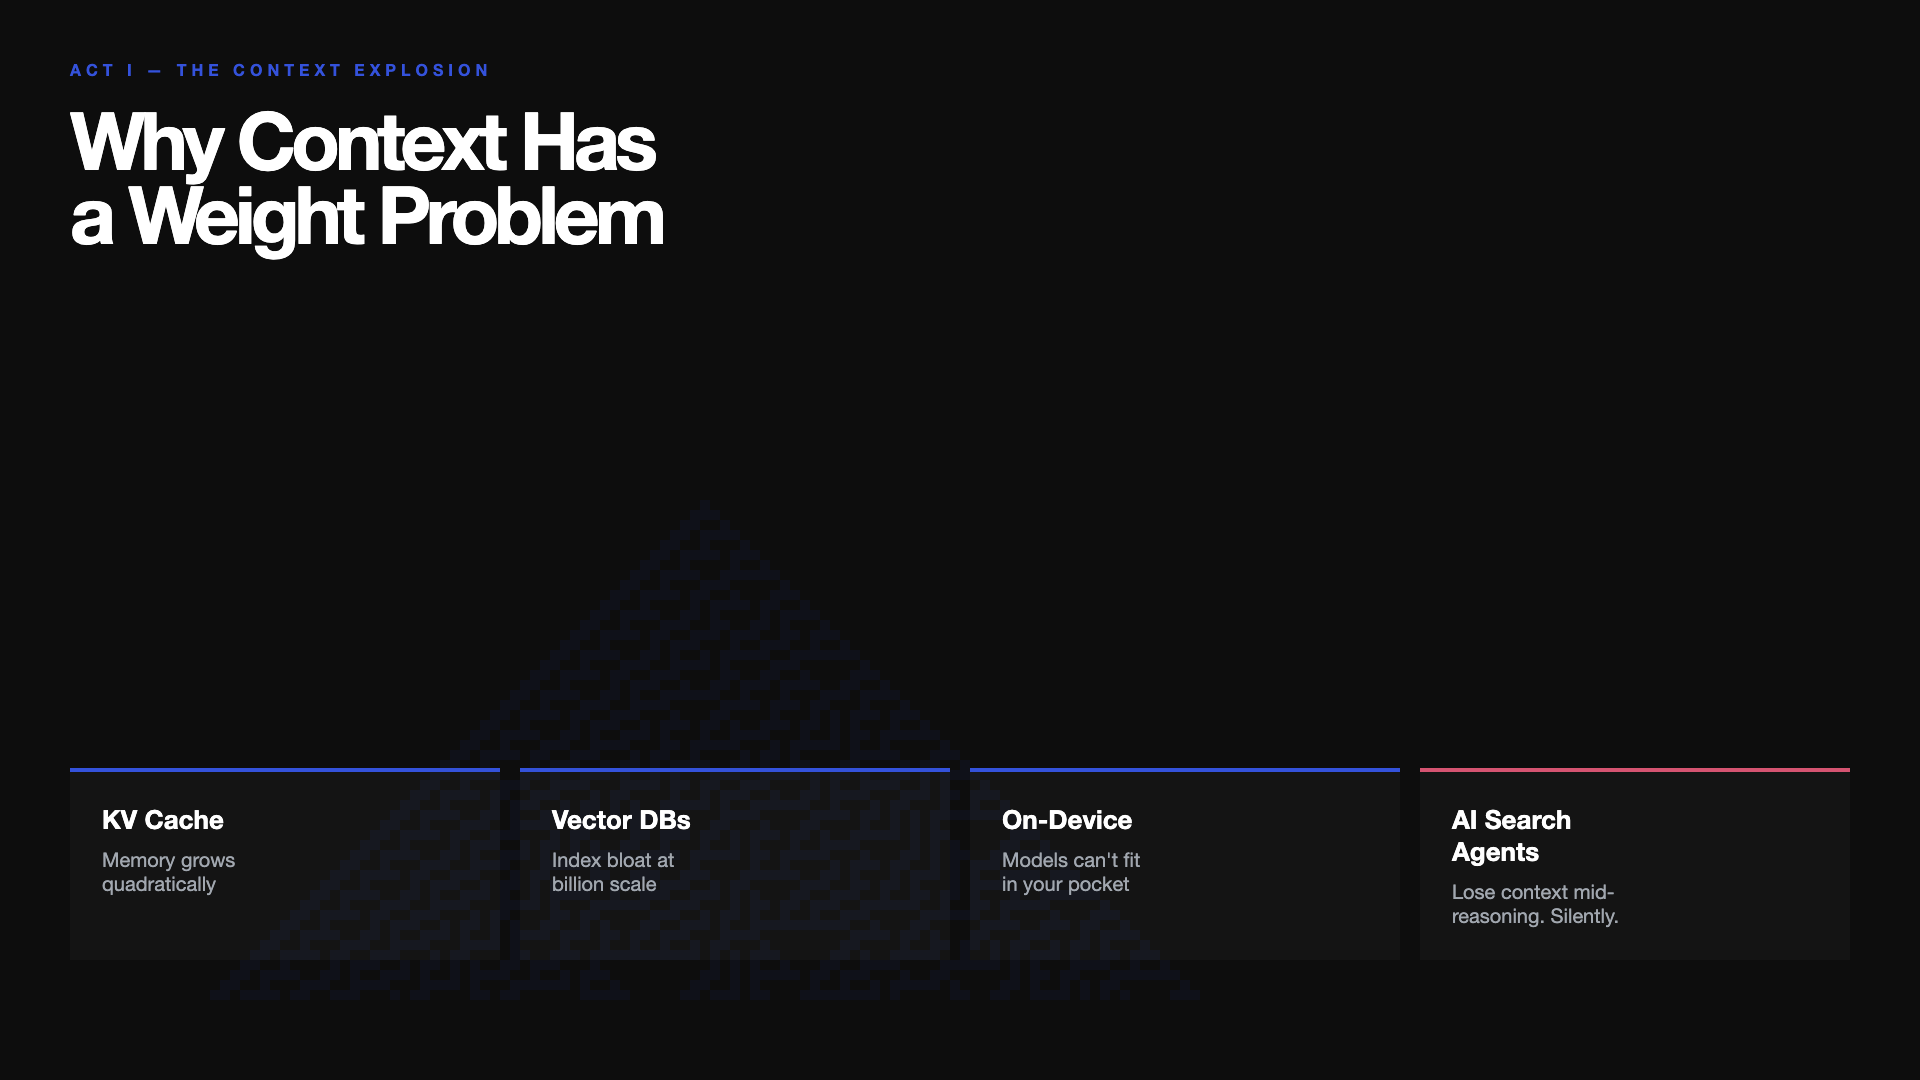
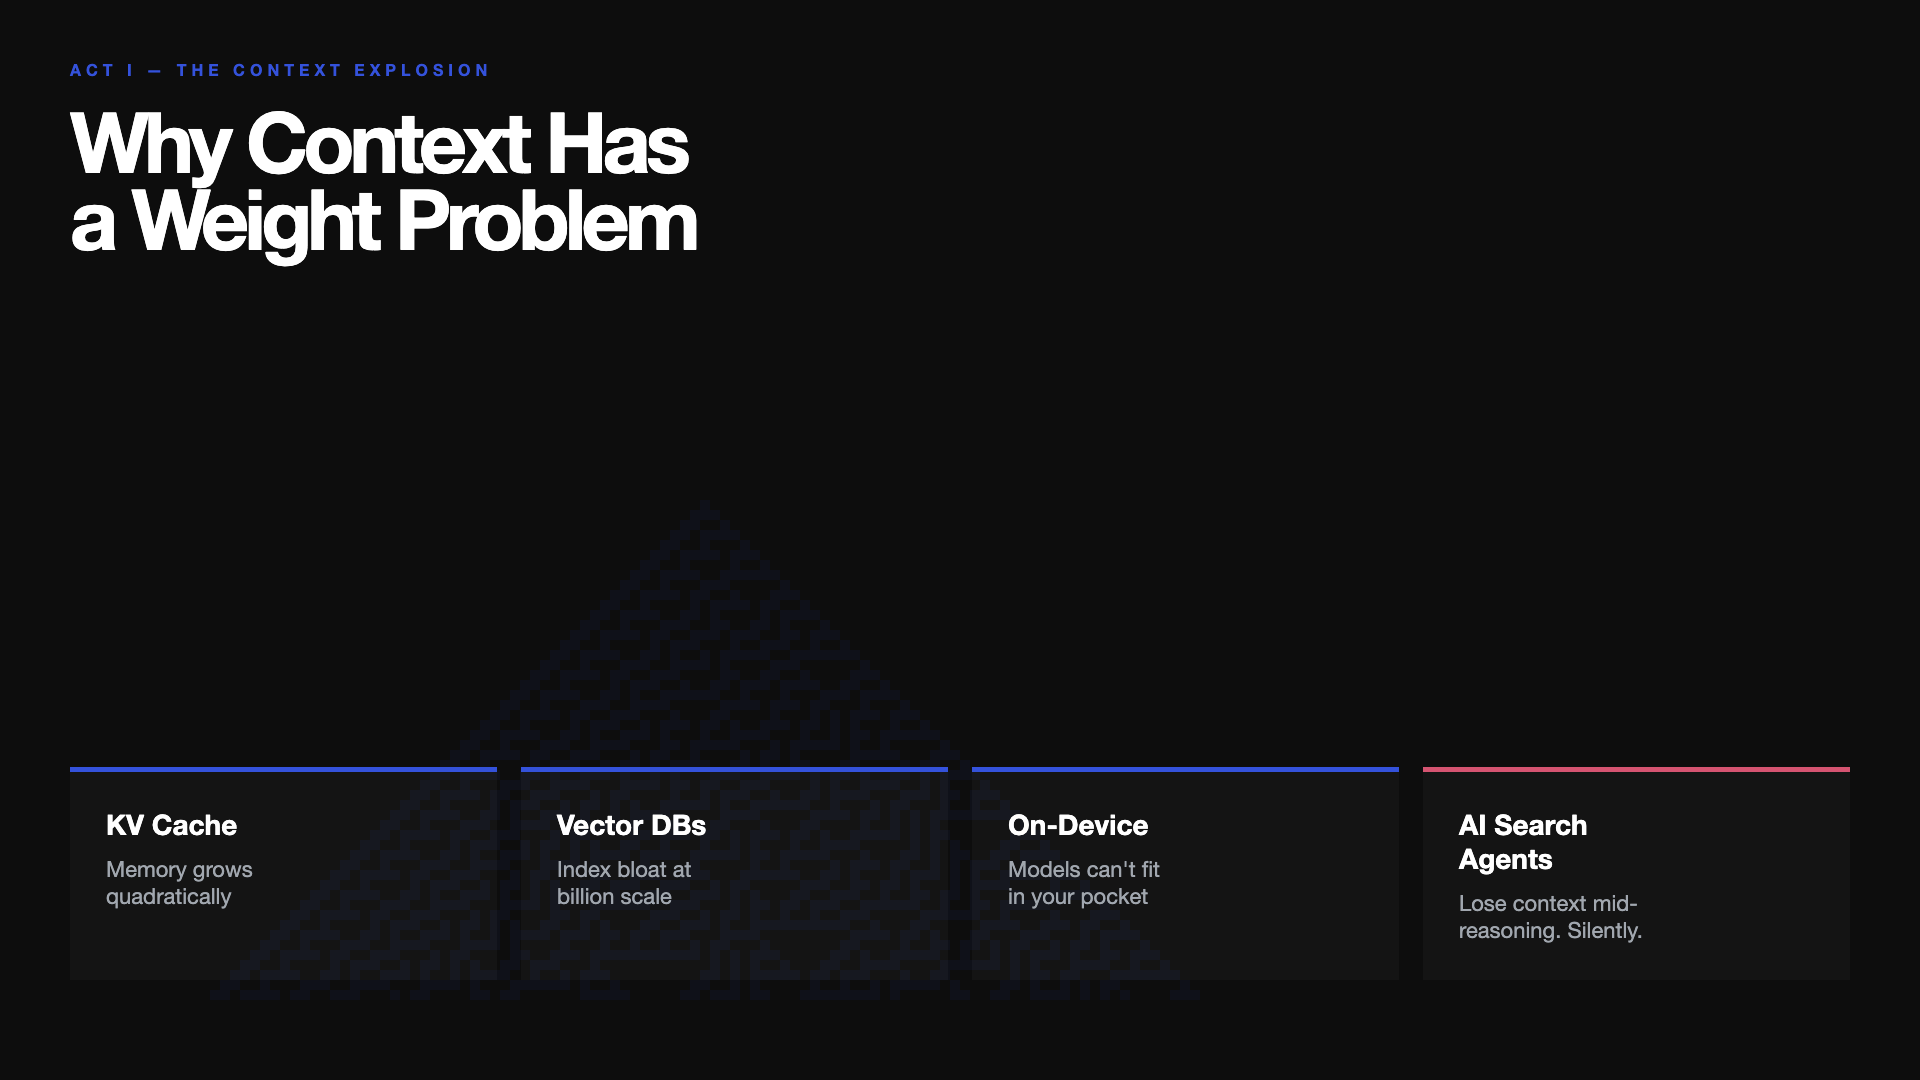
fix: vertically distribute content to fill full canvas
Core layout: added justify-content:center to .c container
Slides 01,04,05,17,19,20: content now fills full height with
flex:1 justify-content:center wrappers. Numbers 80px, titles 40px,
body 26px. No more crammed-into-top-half.

diff --git a/generate_slides_v2_bold.py b/generate_slides_v2_bold.py
@@ -61,7 +61,7 @@ body{{width:{T['W']}px;height:{T['H']}px;background:{bg};
 font-family:{T['font']};overflow:hidden;position:relative;color:{fg};}}
 .ca{{position:absolute;top:0;left:0;width:100%;height:100%;pointer-events:none;z-index:0;}}
 .c{{position:relative;z-index:1;width:100%;height:100%;padding:60px 70px;
-display:flex;flex-direction:column;}}
+display:flex;flex-direction:column;justify-content:center;}}
 .section{{font-size:16px;font-weight:700;letter-spacing:5px;text-transform:uppercase;
 color:{T['sky']};margin-bottom:24px;}}
 .h{{font-weight:900;line-height:0.92;letter-spacing:-5px;}}
@@ -82,13 +82,13 @@ def light(body, ca=""): return html_slide(body, T['white'], T['dark2'], ca)
 def slide_01():
     ca = svg_grid(G30, 80, 14, T['sky'], 0.30, 520, 0)
     return dark(f"""
-    <div style="margin-top:auto;margin-bottom:auto;">
+    <div style="flex:1;display:flex;flex-direction:column;justify-content:center;">
       <div class="section">SEO Week 2026</div>
-      <div class="h" style="font-size:130px;max-width:800px;">Structure<br>Is the<br>Moat</div>
-      <div class="bar" style="width:90px;background:{T['sky']};"></div>
-      <div style="font-size:26px;color:{T['gray']};margin-top:28px;max-width:800px;line-height:1.5;">
+      <div class="h" style="font-size:140px;max-width:900px;">Structure<br>Is the<br>Moat</div>
+      <div class="bar" style="width:100px;background:{T['sky']};"></div>
+      <div style="font-size:28px;color:{T['gray']};margin-top:28px;max-width:900px;line-height:1.5;">
         What the context explosion means for how AI<br>finds, navigates and ranks your content</div>
-      <div style="font-size:20px;color:{T['gray']};opacity:0.6;margin-top:36px;">Andrea Volpini · WordLift</div>
+      <div style="font-size:22px;color:{T['gray']};opacity:0.6;margin-top:36px;">Andrea Volpini · WordLift</div>
     </div>""", ca)
 
 def slide_02():
@@ -97,13 +97,13 @@ def slide_02():
               ("On-Device","Models can't fit\nin your pocket",T['sky']),("AI Search\nAgents","Lose context mid-\nreasoning. Silently.",T['berry'])]
     cards = ""
     for title, desc, color in panels:
-        cards += f'''<div style="flex:1;padding:32px;border-top:4px solid {color};background:rgba(255,255,255,0.03);">
-          <div style="font-size:26px;font-weight:900;margin-bottom:12px;white-space:pre-line;">{title}</div>
-          <div style="font-size:20px;color:{T['gray']};white-space:pre-line;">{desc}</div></div>'''
+        cards += f'''<div style="flex:1;padding:36px;border-top:5px solid {color};background:rgba(255,255,255,0.03);">
+          <div style="font-size:28px;font-weight:900;margin-bottom:14px;white-space:pre-line;">{title}</div>
+          <div style="font-size:22px;color:{T['gray']};white-space:pre-line;">{desc}</div></div>'''
     return dark(f"""
     <div class="section">Act I — The Context Explosion</div>
-    <div class="h" style="font-size:80px;margin-bottom:48px;">Why Context Has<br>a Weight Problem</div>
-    <div style="display:flex;gap:20px;margin-top:auto;margin-bottom:60px;">{cards}</div>""", ca)
+    <div class="h" style="font-size:84px;margin-bottom:auto;">Why Context Has<br>a Weight Problem</div>
+    <div style="display:flex;gap:24px;margin-bottom:40px;">{cards}</div>""", ca)
 
 def slide_03():
     """FIX — Two-column, but BOLD treatment"""
@@ -140,14 +140,14 @@ def slide_04():
               ("03","One Model → A System","Compression · Navigation · Structure working together")]
     items = ""
     for num, title, desc in shifts:
-        items += f'''<div style="display:flex;gap:28px;margin-bottom:44px;align-items:flex-start;">
-          <div style="font-size:64px;font-weight:900;color:{T['sky']};line-height:1;min-width:90px;">{num}</div>
-          <div><div style="font-size:32px;font-weight:900;margin-bottom:8px;">{title}</div>
-          <div style="font-size:22px;color:{T['gray']};">{desc}</div></div></div>'''
+        items += f'''<div style="display:flex;gap:36px;margin-bottom:56px;align-items:flex-start;">
+          <div style="font-size:80px;font-weight:900;color:{T['sky']};line-height:1;min-width:120px;">{num}</div>
+          <div><div style="font-size:40px;font-weight:900;margin-bottom:10px;">{title}</div>
+          <div style="font-size:26px;color:{T['gray']};">{desc}</div></div></div>'''
     return dark(f"""
     <div class="section">Act I — The Context Explosion</div>
-    <div class="h" style="font-size:72px;margin-bottom:52px;">Three Shifts That Changed<br>What 'Findable' Means</div>
-    {items}""", ca)
+    <div class="h" style="font-size:80px;margin-bottom:64px;">Three Shifts That Changed<br>What 'Findable' Means</div>
+    <div style="flex:1;display:flex;flex-direction:column;justify-content:center;">{items}</div>""", ca)
 
 
 # ═══════════════════════════════════════════════════════════
@@ -157,11 +157,11 @@ def slide_04():
 def slide_05():
     ca = svg_grid(G90, 65, 10, T['sky'], 0.06, T['W']//2 - 60*10, 200)
     return dark(f"""
-    <div style="margin-top:auto;margin-bottom:auto;">
+    <div style="flex:1;display:flex;flex-direction:column;justify-content:center;">
       <div class="section" style="margin-bottom:40px;">Act II</div>
-      <div class="h" style="font-size:130px;max-width:1200px;">The<br>Compression<br>Paradox</div>
-      <div class="bar" style="width:90px;background:{T['sky']};"></div>
-      <div style="font-size:24px;color:{T['gray']};margin-top:28px;">
+      <div class="h" style="font-size:140px;max-width:1300px;">The<br>Compression<br>Paradox</div>
+      <div class="bar" style="width:100px;background:{T['sky']};"></div>
+      <div style="font-size:26px;color:{T['gray']};margin-top:28px;">
         High compression · Zero overhead · Geometric accuracy<br>
         <span style="color:{T['berry']};">Get it wrong and your similarity scores are silently biased.</span></div>
     </div>""", ca)
@@ -417,30 +417,32 @@ def slide_17():
     ca = svg_grid(G110, 45, 10, T['sky'], 0.08, T['W']-55*10, 0)
     return dark(f"""
     <div class="section">Act III → IV — Bridge</div>
-    <div class="h" style="font-size:72px;margin-bottom:48px;">
+    <div class="h" style="font-size:80px;margin-bottom:56px;">
       The Gap Is Behavioral.<br><span style="color:{T['sky']};">That Means It's Trainable.</span></div>
-    <div style="display:flex;gap:28px;margin-bottom:40px;">
-      <div style="font-size:48px;font-weight:900;color:{T['sky']};line-height:1;min-width:60px;">01</div>
-      <div><div style="font-size:24px;font-weight:900;">Decisions, not architecture</div>
-        <div style="font-size:16px;color:{T['gray']};margin-top:4px;">83% behavioral tie with heuristic. Same tools, same graph.</div></div>
+    <div style="flex:1;display:flex;flex-direction:column;justify-content:center;">
+    <div style="display:flex;gap:36px;margin-bottom:48px;">
+      <div style="font-size:64px;font-weight:900;color:{T['sky']};line-height:1;min-width:90px;">01</div>
+      <div><div style="font-size:30px;font-weight:900;">Decisions, not architecture</div>
+        <div style="font-size:22px;color:{T['gray']};margin-top:6px;">83% behavioral tie with heuristic. Same tools, same graph.</div></div>
     </div>
-    <div style="display:flex;gap:28px;margin-bottom:40px;">
-      <div style="font-size:48px;font-weight:900;color:{T['sky']};line-height:1;min-width:60px;">02</div>
-      <div><div style="font-size:24px;font-weight:900;">Exploration traces = training data</div>
-        <div style="font-size:16px;color:{T['gray']};margin-top:4px;">519 navigation trajectories with F1 as ground truth.</div></div>
+    <div style="display:flex;gap:36px;margin-bottom:48px;">
+      <div style="font-size:64px;font-weight:900;color:{T['sky']};line-height:1;min-width:90px;">02</div>
+      <div><div style="font-size:30px;font-weight:900;">Exploration traces = training data</div>
+        <div style="font-size:22px;color:{T['gray']};margin-top:6px;">519 navigation trajectories with F1 as ground truth.</div></div>
     </div>
-    <div style="display:flex;gap:28px;margin-bottom:40px;">
-      <div style="font-size:48px;font-weight:900;color:{T['sky']};line-height:1;min-width:60px;">03</div>
-      <div><div style="font-size:24px;font-weight:900;">Fine-tune, distill, deploy</div>
-        <div style="font-size:16px;color:{T['gray']};margin-top:4px;">TRL on Gemma 4 → on-device navigator, zero per query.</div></div>
+    <div style="display:flex;gap:36px;margin-bottom:48px;">
+      <div style="font-size:64px;font-weight:900;color:{T['sky']};line-height:1;min-width:90px;">03</div>
+      <div><div style="font-size:30px;font-weight:900;">Fine-tune, distill, deploy</div>
+        <div style="font-size:22px;color:{T['gray']};margin-top:6px;">TRL on Gemma 4 → on-device navigator, zero per query.</div></div>
     </div>
-    <div style="display:flex;align-items:center;gap:16px;margin-top:auto;margin-bottom:60px;
-                padding:20px;border:2px solid rgba(255,255,255,0.1);background:rgba(52,82,219,0.03);">
-      <div style="padding:14px 24px;background:{T['sky']};font-size:16px;font-weight:700;">Claude traces</div>
-      <div style="color:{T['gray']};font-size:24px;">→</div>
-      <div style="padding:14px 24px;border:2px solid {T['sky']};font-size:16px;font-weight:700;">TRL fine-tuning</div>
-      <div style="color:{T['gray']};font-size:24px;">→</div>
-      <div style="padding:14px 24px;background:{T['leaf']};font-size:16px;font-weight:700;">Gemma on-device</div>
+    </div>
+    <div style="display:flex;align-items:center;gap:20px;
+                padding:24px;border:2px solid rgba(255,255,255,0.1);background:rgba(52,82,219,0.03);">
+      <div style="padding:16px 28px;background:{T['sky']};font-size:20px;font-weight:700;">Claude traces</div>
+      <div style="color:{T['gray']};font-size:28px;">→</div>
+      <div style="padding:16px 28px;border:2px solid {T['sky']};font-size:20px;font-weight:700;">TRL fine-tuning</div>
+      <div style="color:{T['gray']};font-size:28px;">→</div>
+      <div style="padding:16px 28px;background:{T['leaf']};font-size:20px;font-weight:700;">Gemma on-device</div>
     </div>""", ca)
 
 
@@ -475,16 +477,16 @@ def slide_19():
              ("03","Disconnected data = dead end","Without structure, training has no signal")]
     items = ""
     for num, title, desc in steps:
-        items += f'''<div style="display:flex;gap:24px;margin-bottom:40px;align-items:flex-start;">
-          <div style="font-size:48px;font-weight:900;color:{T['sky']};line-height:1;min-width:70px;">{num}</div>
-          <div><div style="font-size:28px;font-weight:900;margin-bottom:6px;">{title}</div>
-          <div style="font-size:18px;color:{T['gray']};">{desc}</div></div></div>'''
+        items += f'''<div style="display:flex;gap:36px;margin-bottom:56px;align-items:flex-start;">
+          <div style="font-size:80px;font-weight:900;color:{T['sky']};line-height:1;min-width:120px;">{num}</div>
+          <div><div style="font-size:36px;font-weight:900;margin-bottom:8px;">{title}</div>
+          <div style="font-size:24px;color:{T['gray']};">{desc}</div></div></div>'''
     return dark(f"""
     <div class="section">Act IV — The SLM Navigator</div>
-    <div class="h" style="font-size:64px;margin-bottom:56px;">Well-Connected Data Is<br>the Training Advantage</div>
-    {items}
-    <div class="bar" style="width:60px;background:{T['berry']};"></div>
-    <div style="font-size:20px;color:{T['gray']};margin-top:16px;">Data connectivity is your AI training pipeline.</div>""", ca)
+    <div class="h" style="font-size:72px;margin-bottom:auto;">Well-Connected Data Is<br>the Training Advantage</div>
+    <div style="flex:1;display:flex;flex-direction:column;justify-content:center;">{items}</div>
+    <div class="bar" style="width:70px;background:{T['berry']};"></div>
+    <div style="font-size:24px;color:{T['gray']};margin-top:16px;">Data connectivity is your AI training pipeline.</div>""", ca)
 
 def slide_20():
     ca = svg_grid(G90s, 30, 8, T['leaf'], 0.05, 1300, 400)
@@ -492,16 +494,16 @@ def slide_20():
               ("On-Device","→",T['sand'],"18 months"),("Data Connectivity","?",T['berry'],"You control this today")]
     items = ""
     for label, status, color, note in checks:
-        items += f'''<div style="display:flex;align-items:center;gap:24px;margin-bottom:28px;">
-          <div style="width:60px;height:60px;border-radius:50%;border:3px solid {color};
+        items += f'''<div style="display:flex;align-items:center;gap:32px;margin-bottom:40px;">
+          <div style="width:80px;height:80px;border-radius:50%;border:4px solid {color};
                       display:flex;align-items:center;justify-content:center;
-                      font-size:24px;font-weight:900;color:{color};">{status}</div>
-          <div><div style="font-size:26px;font-weight:900;">{label}</div>
-          <div style="font-size:16px;color:{T['gray']};">{note}</div></div></div>'''
+                      font-size:32px;font-weight:900;color:{color};">{status}</div>
+          <div><div style="font-size:34px;font-weight:900;">{label}</div>
+          <div style="font-size:22px;color:{T['gray']};">{note}</div></div></div>'''
     return dark(f"""
     <div class="section">Act IV — The SLM Navigator</div>
-    <div class="h" style="font-size:64px;margin-bottom:56px;">The Floor Is Set</div>
-    {items}""", ca)
+    <div class="h" style="font-size:72px;margin-bottom:auto;">The Floor Is Set</div>
+    <div style="flex:1;display:flex;flex-direction:column;justify-content:center;">{items}</div>""", ca)
 
 
 # ═══════════════════════════════════════════════════════════
